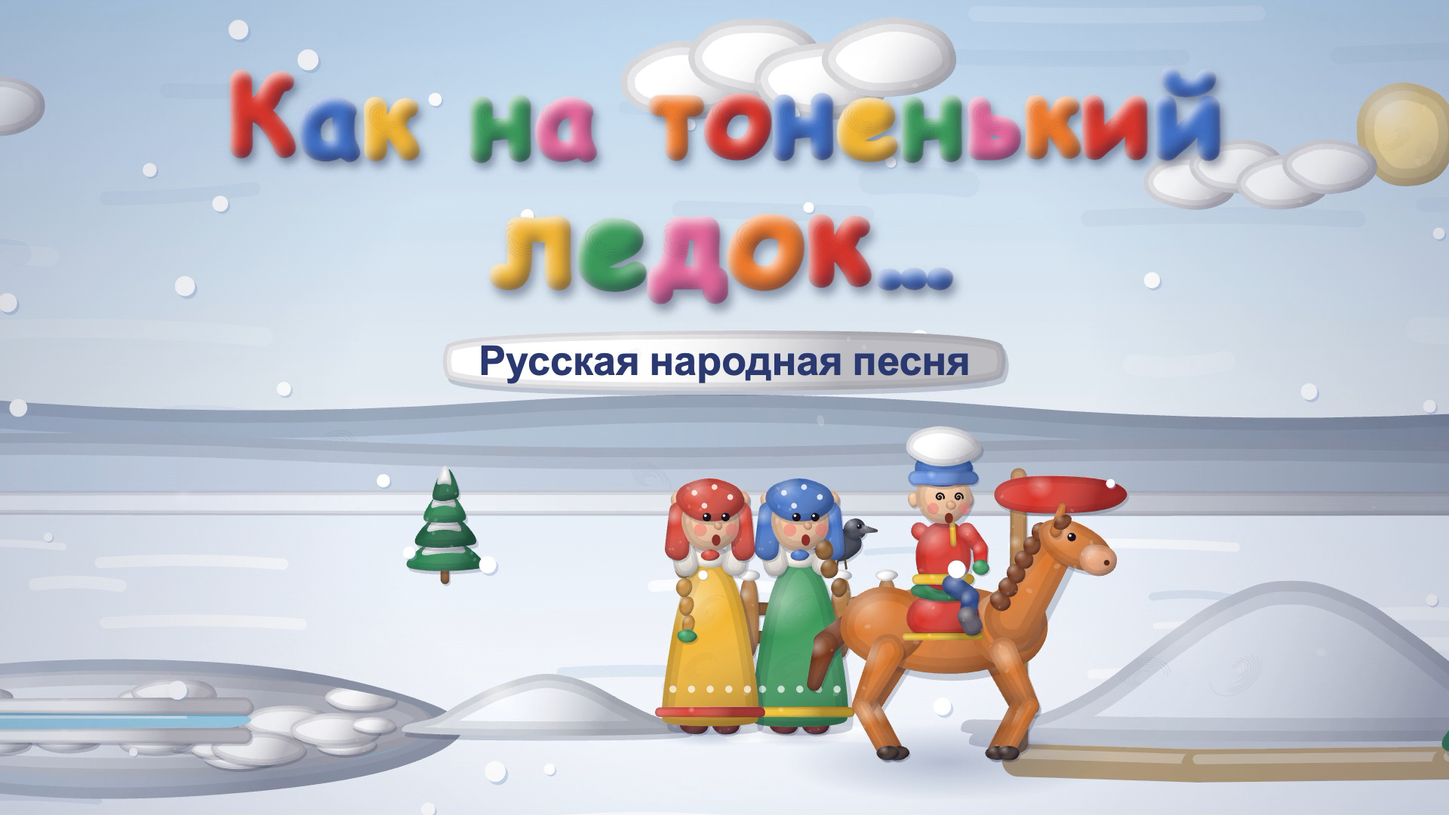
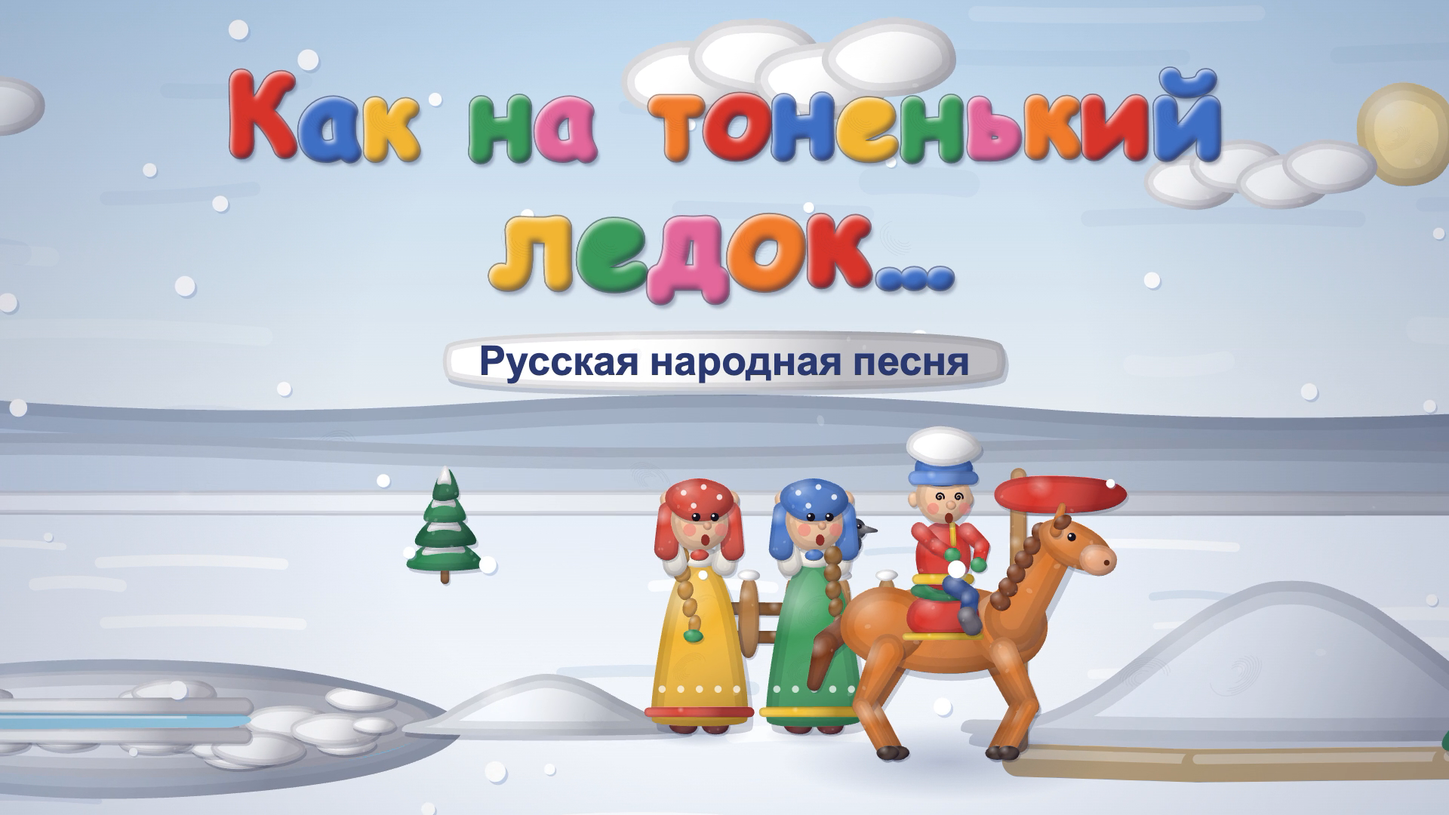
add Как на тоненький ледок (Народное) v2
Резкий заголовок, у Вани обе руки видны во всех позах, руки и коса девушек исправлены, снегирю лапки.

diff --git a/texts/Народное/Как на тоненький ледок/video/index.html b/texts/Народное/Как на тоненький ледок/video/index.html
@@ -520,10 +520,10 @@ function drawVanya(c, x, y, V) {
   c.save(); c.translate(x, y); if (V.rot) c.rotate(V.rot); c.scale(V.sx ?? 1, V.sy ?? 1);
   const look = V.look ?? 0.6, legs = V.legs ?? "stand";
   // ноги
-  const legDraw = (hx, kx, ky, fx, fy, seed) => {
+  const legDraw = (hx, kx, ky, fx, fy, seed) => { // носок валенка — по развороту тела
     claySaus(c, hx, 0, 17, kx, ky, 15, PAL.pants, seed, { prints: 0 });
     claySaus(c, kx, ky, 15, fx, fy - 18, 14, PAL.pants, seed + 1, { prints: 0 });
-    claySaus(c, fx, fy - 26, 16, fx + 7 * Math.sign(look || 1), fy - 10, 17, PAL.felt, seed + 2, { prints: 0 });
+    claySaus(c, fx, fy - 26, 16, fx + 7 * (V.face ?? Math.sign(look || 1)), fy - 10, 17, PAL.felt, seed + 2, { prints: 0 });
   };
   if (legs === "stand") { const st = V.step || 0; legDraw(-18, -21, 44, -22 + st, 100, 801); legDraw(18, 21, 44, 22 - st, 100, 804); }
   else if (legs === "fly") { legDraw(-18, -46, 30, -60, 74, 801); legDraw(18, 46, 30, 62, 70, 804); }
@@ -535,18 +535,19 @@ function drawVanya(c, x, y, V) {
     claySaus(c, k.jx, k.jy, 13, k.ex, k.ey, 11, PAL.shirt, 812 + i * 3, { prints: 0 });
     clayBlob(c, k.ex, k.ey, 14, 13, PAL.mitt, 0, 813 + i * 3, { prints: 0 });
   };
-  const farArm = look >= 0 ? 0 : 1;
-  armDraw(farArm);
+  const face = V.face ?? (look >= 0 ? 1 : -1), farArm = face >= 0 ? 0 : 1;
+  if (!V.armsFront) armDraw(farArm); // всадник держит поводья обеими руками перед животом — обе руки спереди
   // туловище
   clay(c, blob(0, -50, 47, 60, 0, 821, 0.04), PAL.shirt, { seed: 821, prints: 1 });
   claySaus(c, 10 + look * 8, -104, 5, 12 + look * 8, -70, 5, PAL.gold, 822, { prints: 0, shadow: false });
   claySaus(c, -44, -10, 9, 44, -10, 9, PAL.gold, 823, { prints: 0 });
   clayBlob(c, 26, 6, 7, 12, PAL.gold, 0.3, 824, { prints: 0 });
   if (legs === "ride") { // ближняя нога вдоль бока коня
-    claySaus(c, 16 * Math.sign(look || 1), 0, 18, 46, 18, 15, PAL.pants, 831, { prints: 0 });
+    claySaus(c, 16, 0, 18, 46, 18, 15, PAL.pants, 831, { prints: 0 });
     claySaus(c, 46, 18, 15, 42, 58, 14, PAL.pants, 832, { prints: 0 });
     claySaus(c, 40, 52, 16, 50, 70, 17, PAL.felt, 833, { prints: 0 });
   }
+  if (V.armsFront) armDraw(farArm);
   armDraw(1 - farArm);
   // голова
   const fx = look * 14, hb = V.headBob || 0;
@@ -588,11 +589,13 @@ function drawVanyaFlat(c, x, y, F) {
     claySaus(c, kx - i * 10, ky - i * 3, 14, fx - i * 10, fy, 13, PAL.pants, 862 + i * 4, { prints: 0 });
     claySaus(c, fx - i * 10, fy + 4, 15, fx - i * 10 - 6, fy - 16, 16, PAL.felt, 863 + i * 4, { prints: 0 });
   }
-  // руки в стороны по снегу
-  claySaus(c, 30 * sx, -18 * sy, 13, 80 * sx, 6, 11, PAL.shirt, 871, { prints: 0 }); clayBlob(c, 92 * sx, 8, 14, 10, PAL.mitt, 0, 872, { prints: 0 });
+  // дальняя рука раскинута в сторону от зрителя — видна над спиной
+  claySaus(c, 40 * sx, -26 * sy, 12, 58 * sx, -30 * sy - 34, 10, PAL.shirt, 869, { prints: 0 }); clayBlob(c, 62 * sx, -30 * sy - 44, 13, 12, PAL.mitt, 0, 870, { prints: 0 });
   // туловище-лепёшка
   clay(c, blob(0, -30 * sy, 78 * sx, 40 * sy, 0, 873, 0.05), PAL.shirt, { seed: 873, prints: 2 });
   claySaus(c, -54 * sx, -26 * sy, 8, -40 * sx, -50 * sy, 8, PAL.gold, 874, { prints: 0, shadow: false });
+  // ближняя рука раскинута к зрителю — лежит на снегу перед туловищем
+  claySaus(c, 44 * sx, -18 * sy, 13, 64 * sx, 16, 11, PAL.shirt, 871, { prints: 0 }); clayBlob(c, 70 * sx, 22, 14, 10, PAL.mitt, 0, 872, { prints: 0 });
   // голова: лицом в снег; поднимает — видно лицо в профиль
   const up = F.headUp || 0, hx = 112 * sx - 6 * up, hy = -34 * sy - 16 * up;
   claySaus(c, 62 * sx, -28 * sy, 22 * sy + 6, hx - 18, hy + 8, 20, PAL.shirt, 879, { prints: 0, shadow: false }); // плечи-ворот: голова не отрывается от тела
@@ -631,7 +634,8 @@ function drawGirl(c, x, y, G) {
   for (const [i, [fx, fy]] of feet.entries()) clayBlob(c, fx, fy - 12 - (G.bob || 0), 20, 13, PAL.boot, 0, 901 + i, { prints: 0 });
   // коса за спиной/через плечо
   const bs = G.braidSide || -1, bsw = G.braidSwing || 0;
-  const braid = () => { let px = bs * 30, py = -282; for (let i = 0; i < 5; i++) { const nx = px + bs * (4 + i * 1.5) + Math.sin(bsw + i * 0.5) * i * 4, ny = py + 26; clayBlob(c, nx, ny, 13 - i, 14, G.hair || "#c58a3a", 0.2, 910 + i, { prints: 0, shadow: false }); px = nx; py = ny; } clayBlob(c, px + bs * 2, py + 16, 14, 9, G.ribbon || PAL.cloth, 0, 916, { prints: 0 }); };
+  // коса через плечо ложится на грудь: звенья идут вниз и чуть к середине, а не в воздух сбоку
+  const braid = () => { let px = bs * 28, py = -272; for (let i = 0; i < 5; i++) { const nx = px - bs * 1.5 + Math.sin(bsw + i * 0.5) * i * 1.6, ny = py + 24; clayBlob(c, nx, ny, 13 - i, 14, G.hair || "#c58a3a", 0.2, 910 + i, { prints: 0, shadow: false }); px = nx; py = ny; } clayBlob(c, px + bs * 2, py + 16, 14, 9, G.ribbon || PAL.cloth, 0, 916, { prints: 0 }); };
   // руки
   const SH = [[-34, -236], [34, -236]], arms = G.arms || [[-50, -150], [50, -150]];
   const hands = [];
@@ -704,6 +708,7 @@ function drawCrow(c, x, y, dir, t, huff) {
 }
 function drawFinch(c, x, y, dir, flap, t, chirp = 0) {
   c.save(); c.translate(x, y); c.scale(dir, 1); CLAYM = dir;
+  if (!flap) { c.strokeStyle = "#5a4a3a"; c.lineWidth = 2.5; c.lineCap = "round"; c.beginPath(); c.moveTo(-4, -4); c.lineTo(-6, 4); c.moveTo(5, -4); c.lineTo(6, 4); c.stroke(); }
   claySaus(c, -14, -16, 7, -34, -10, 4, "#2a2a33", 981, { prints: 0, shadow: false });
   clay(c, blob(0, -20, 22, 20, 0, 982, 0.04), PAL.finchB, { seed: 982, prints: 0 });
   c.save(); c.clip(blob(0, -20, 22, 20, 0, 982, 0.04).p); clayBlob(c, 10, -8, 22, 18, PAL.finch, 0, 983, { prints: 0, shadow: false }); c.restore();
@@ -731,8 +736,8 @@ const T_RUN0 = L(10) - 0.15, T_RUN1 = EN(11) - 0.25;
 const T_GO = EN(NL) + 0.3, T_BUMP = EN(NL) + 2.3;
 const HX_START = 520, HX_TROT = 1150, HX_SLIP = 1720, HX_ICE = 1960, HX_STAND = 2160, HX_BUMP = 3125;
 const VX_LIE = 2470, VX_UP = 2560;
-const G1 = { x0: 3530, x1: 2770, sar: "#f2b632", scarf: "#d84a3a", trim: "#d84a3a", hair: "#c58a3a", ribbon: "#3a9a5a", braidSide: -1, seed: 0 };
-const G2 = { x0: 3630, x1: 2895, sar: "#3d9a5b", scarf: "#4a78c8", trim: "#f2c232", hair: "#8a5a2a", ribbon: "#d84a3a", braidSide: 1, seed: 3 };
+const G1 = { x0: 3530, x1: 2755, sar: "#f2b632", scarf: "#d84a3a", trim: "#d84a3a", hair: "#c58a3a", ribbon: "#3a9a5a", braidSide: -1, seed: 0 };
+const G2 = { x0: 3630, x1: 2915, sar: "#3d9a5b", scarf: "#4a78c8", trim: "#f2c232", hair: "#8a5a2a", ribbon: "#d84a3a", braidSide: 1, seed: 3 };
 const GY = (x) => { const h = hillY(x); return h + 19 * (1 - (HILL.y - h) / (HILL.y - HILL.top)); };
 
 function blinkAt(t, off) { const p = (t + off) % 3.3; return p < 0.16 ? Math.max(0.05, Math.abs(p - 0.08) / 0.08) : 1; }
@@ -770,7 +775,7 @@ function vanyaState(t) {
   return { mode: "ride" };
 }
 function riderPose(t) {
-  const V = { legs: "ride", look: 0.7, arms: [[58, -36], [64, -30]], sx: 0.82, sy: 0.82, mouth: 1, blink: blinkAt(t, 0.2) };
+  const V = { legs: "ride", face: 1, armsFront: true, look: 0.7, arms: [[30, -40], [60, -34]], sx: 0.82, sy: 0.82, mouth: 1, blink: blinkAt(t, 0.2) };
   if (t < T_FLY0) {
     // глазеет на снегиря, отвернувшись назад
     const back = sstep(prog(t, E.w_posp - 0.45, E.w_posp - 0.1)) * (1 - sstep(prog(t, T_SLIP - 0.05, T_SLIP + 0.1)));
@@ -1045,26 +1050,30 @@ function captionsPlate(c, t) {
 const TITLE_L1 = "Как на тоненький", TITLE_L2 = "ледок…", SUB = "Русская народная песня";
 const T_COLORS = ["#d8352a", "#3f6fc4", "#f2b632", "#3a9a5a", "#e2679a", "#f07a2a"];
 let SPRITES = null;
-function makeLetter(ch, px, hex) {
-  const f = `700 ${px}px "Comic Sans MS", "Trebuchet MS", sans-serif`, pad = 40;
+const TS = 2; // буквы рисуем в 2× и уменьшаем при выводе — край остаётся чётким
+function makeLetter(ch, pxOut, hex) {
+  const px = pxOut * TS, f = `700 ${px}px "Comic Sans MS", "Trebuchet MS", sans-serif`, pad = 40 * TS;
   const m = document.createElement("canvas").getContext("2d"); m.font = f;
   const w = Math.ceil(m.measureText(ch).width) + pad * 2, h = Math.ceil(px * 1.35) + pad * 2;
   const cv = document.createElement("canvas"); cv.width = w; cv.height = h;
   const a = cv.getContext("2d"), bx = pad, by = pad + px * 1.0;
   const shape = (g, col) => { g.font = f; g.lineJoin = "round"; g.lineWidth = px * 0.08; g.fillStyle = col; g.strokeStyle = col; g.fillText(ch, bx, by); g.strokeText(ch, bx, by); };
   // тень
-  a.save(); a.filter = `blur(${px * 0.04}px)`; a.globalAlpha = 0.35; a.translate(px * 0.035, px * 0.06); shape(a, "#28304f"); a.restore();
+  a.save(); a.filter = `blur(${px * 0.012}px)`; a.globalAlpha = 0.3; a.translate(px * 0.025, px * 0.04); shape(a, "#28304f"); a.restore();
   const b = document.createElement("canvas"); b.width = w; b.height = h; const bc = b.getContext("2d"); shape(bc, hex);
   // объём: внутренняя тень снизу-справа и блик сверху-слева через размытую «изнанку»
   const inv = (col) => { const q = document.createElement("canvas"); q.width = w; q.height = h; const g = q.getContext("2d"); g.fillStyle = col; g.fillRect(0, 0, w, h); g.globalCompositeOperation = "destination-out"; shape(g, "#000"); return q; };
   bc.globalCompositeOperation = "source-atop";
-  bc.save(); bc.filter = `blur(${px * 0.05}px)`; bc.globalAlpha = 0.55; bc.drawImage(inv("#1e1a3a"), -px * 0.04, -px * 0.05); bc.restore();
-  bc.save(); bc.filter = `blur(${px * 0.04}px)`; bc.globalAlpha = 0.75; bc.drawImage(inv("#ffffff"), px * 0.035, px * 0.045); bc.restore();
+  bc.save(); bc.filter = `blur(${px * 0.022}px)`; bc.globalAlpha = 0.5; bc.drawImage(inv("#1e1a3a"), -px * 0.025, -px * 0.03); bc.restore();
+  bc.save(); bc.filter = `blur(${px * 0.018}px)`; bc.globalAlpha = 0.7; bc.drawImage(inv("#ffffff"), px * 0.02, px * 0.026); bc.restore();
+  // чёткий край буквы
+  bc.globalCompositeOperation = "source-over"; bc.save(); bc.font = f; bc.lineJoin = "round"; bc.lineWidth = Math.max(2, px * 0.012); bc.strokeStyle = rgbStr(shades(hex).deep, 0.55);
+  bc.fillStyle = "rgba(0,0,0,0)"; bc.lineWidth = px * 0.08 + Math.max(2, px * 0.012) * 2; bc.globalCompositeOperation = "destination-over"; bc.strokeText(ch, bx, by); bc.restore();
   // отпечаток пальца
   bc.strokeStyle = "rgba(30,20,50,0.08)"; bc.lineWidth = 1.2;
   for (let i = 0; i < 6; i++) { bc.beginPath(); bc.ellipse(bx + px * 0.25, by - px * 0.35, px * (0.05 + i * 0.03), px * (0.035 + i * 0.022), 0.4, 0.3 * i, 0.3 * i + 2.4); bc.stroke(); }
   a.drawImage(b, 0, 0);
-  return { cv, w, h, adv: m.measureText(ch).width, bx, by };
+  return { cv, w, h, adv: m.measureText(ch).width / TS, bx, by };
 }
 function layoutLine(str, px, cx, baseY, ci) {
   const out = []; let x = 0;
@@ -1092,9 +1101,9 @@ function drawTitleSet(c, t, t0, out) {
     let oy = 0, a = 1;
     if (out !== undefined && t > out) { const v = t - out - i * 0.02; if (v > 0) { oy = -700 * v * v * 3; a = 1 - clamp(v / 0.4, 0, 1); } }
     if (a <= 0) return;
-    const wob = Math.sin(t * 2 + i) * 2;
-    c.save(); c.globalAlpha = a; c.translate(L1.x + L1.sp.adv / 2, y + oy + wob); c.scale(sx, sy);
-    c.drawImage(L1.sp.cv, -L1.sp.adv / 2 - L1.sp.bx, -L1.sp.by); c.restore();
+    const wob = Math.round(Math.sin(t * 2 + i) * 2);
+    c.save(); c.globalAlpha = a; c.translate(Math.round(L1.x + L1.sp.adv / 2), Math.round(y + oy) + wob); c.scale(sx, sy);
+    c.drawImage(L1.sp.cv, -L1.sp.adv / 2 - L1.sp.bx / TS, -L1.sp.by / TS, L1.sp.w / TS, L1.sp.h / TS); c.restore();
   });
 }
 function drawSub(c, t, t0, y, out) {

diff --git a/texts/Народное/Как на тоненький ледок/video/src/chars.js b/texts/Народное/Как на тоненький ледок/video/src/chars.js
@@ -109,10 +109,10 @@ function drawVanya(c, x, y, V) {
   c.save(); c.translate(x, y); if (V.rot) c.rotate(V.rot); c.scale(V.sx ?? 1, V.sy ?? 1);
   const look = V.look ?? 0.6, legs = V.legs ?? "stand";
   // ноги
-  const legDraw = (hx, kx, ky, fx, fy, seed) => {
+  const legDraw = (hx, kx, ky, fx, fy, seed) => { // носок валенка — по развороту тела
     claySaus(c, hx, 0, 17, kx, ky, 15, PAL.pants, seed, { prints: 0 });
     claySaus(c, kx, ky, 15, fx, fy - 18, 14, PAL.pants, seed + 1, { prints: 0 });
-    claySaus(c, fx, fy - 26, 16, fx + 7 * Math.sign(look || 1), fy - 10, 17, PAL.felt, seed + 2, { prints: 0 });
+    claySaus(c, fx, fy - 26, 16, fx + 7 * (V.face ?? Math.sign(look || 1)), fy - 10, 17, PAL.felt, seed + 2, { prints: 0 });
   };
   if (legs === "stand") { const st = V.step || 0; legDraw(-18, -21, 44, -22 + st, 100, 801); legDraw(18, 21, 44, 22 - st, 100, 804); }
   else if (legs === "fly") { legDraw(-18, -46, 30, -60, 74, 801); legDraw(18, 46, 30, 62, 70, 804); }
@@ -124,18 +124,19 @@ function drawVanya(c, x, y, V) {
     claySaus(c, k.jx, k.jy, 13, k.ex, k.ey, 11, PAL.shirt, 812 + i * 3, { prints: 0 });
     clayBlob(c, k.ex, k.ey, 14, 13, PAL.mitt, 0, 813 + i * 3, { prints: 0 });
   };
-  const farArm = look >= 0 ? 0 : 1;
-  armDraw(farArm);
+  const face = V.face ?? (look >= 0 ? 1 : -1), farArm = face >= 0 ? 0 : 1;
+  if (!V.armsFront) armDraw(farArm); // всадник держит поводья обеими руками перед животом — обе руки спереди
   // туловище
   clay(c, blob(0, -50, 47, 60, 0, 821, 0.04), PAL.shirt, { seed: 821, prints: 1 });
   claySaus(c, 10 + look * 8, -104, 5, 12 + look * 8, -70, 5, PAL.gold, 822, { prints: 0, shadow: false });
   claySaus(c, -44, -10, 9, 44, -10, 9, PAL.gold, 823, { prints: 0 });
   clayBlob(c, 26, 6, 7, 12, PAL.gold, 0.3, 824, { prints: 0 });
   if (legs === "ride") { // ближняя нога вдоль бока коня
-    claySaus(c, 16 * Math.sign(look || 1), 0, 18, 46, 18, 15, PAL.pants, 831, { prints: 0 });
+    claySaus(c, 16, 0, 18, 46, 18, 15, PAL.pants, 831, { prints: 0 });
     claySaus(c, 46, 18, 15, 42, 58, 14, PAL.pants, 832, { prints: 0 });
     claySaus(c, 40, 52, 16, 50, 70, 17, PAL.felt, 833, { prints: 0 });
   }
+  if (V.armsFront) armDraw(farArm);
   armDraw(1 - farArm);
   // голова
   const fx = look * 14, hb = V.headBob || 0;
@@ -177,11 +178,13 @@ function drawVanyaFlat(c, x, y, F) {
     claySaus(c, kx - i * 10, ky - i * 3, 14, fx - i * 10, fy, 13, PAL.pants, 862 + i * 4, { prints: 0 });
     claySaus(c, fx - i * 10, fy + 4, 15, fx - i * 10 - 6, fy - 16, 16, PAL.felt, 863 + i * 4, { prints: 0 });
   }
-  // руки в стороны по снегу
-  claySaus(c, 30 * sx, -18 * sy, 13, 80 * sx, 6, 11, PAL.shirt, 871, { prints: 0 }); clayBlob(c, 92 * sx, 8, 14, 10, PAL.mitt, 0, 872, { prints: 0 });
+  // дальняя рука раскинута в сторону от зрителя — видна над спиной
+  claySaus(c, 40 * sx, -26 * sy, 12, 58 * sx, -30 * sy - 34, 10, PAL.shirt, 869, { prints: 0 }); clayBlob(c, 62 * sx, -30 * sy - 44, 13, 12, PAL.mitt, 0, 870, { prints: 0 });
   // туловище-лепёшка
   clay(c, blob(0, -30 * sy, 78 * sx, 40 * sy, 0, 873, 0.05), PAL.shirt, { seed: 873, prints: 2 });
   claySaus(c, -54 * sx, -26 * sy, 8, -40 * sx, -50 * sy, 8, PAL.gold, 874, { prints: 0, shadow: false });
+  // ближняя рука раскинута к зрителю — лежит на снегу перед туловищем
+  claySaus(c, 44 * sx, -18 * sy, 13, 64 * sx, 16, 11, PAL.shirt, 871, { prints: 0 }); clayBlob(c, 70 * sx, 22, 14, 10, PAL.mitt, 0, 872, { prints: 0 });
   // голова: лицом в снег; поднимает — видно лицо в профиль
   const up = F.headUp || 0, hx = 112 * sx - 6 * up, hy = -34 * sy - 16 * up;
   claySaus(c, 62 * sx, -28 * sy, 22 * sy + 6, hx - 18, hy + 8, 20, PAL.shirt, 879, { prints: 0, shadow: false }); // плечи-ворот: голова не отрывается от тела
@@ -220,7 +223,8 @@ function drawGirl(c, x, y, G) {
   for (const [i, [fx, fy]] of feet.entries()) clayBlob(c, fx, fy - 12 - (G.bob || 0), 20, 13, PAL.boot, 0, 901 + i, { prints: 0 });
   // коса за спиной/через плечо
   const bs = G.braidSide || -1, bsw = G.braidSwing || 0;
-  const braid = () => { let px = bs * 30, py = -282; for (let i = 0; i < 5; i++) { const nx = px + bs * (4 + i * 1.5) + Math.sin(bsw + i * 0.5) * i * 4, ny = py + 26; clayBlob(c, nx, ny, 13 - i, 14, G.hair || "#c58a3a", 0.2, 910 + i, { prints: 0, shadow: false }); px = nx; py = ny; } clayBlob(c, px + bs * 2, py + 16, 14, 9, G.ribbon || PAL.cloth, 0, 916, { prints: 0 }); };
+  // коса через плечо ложится на грудь: звенья идут вниз и чуть к середине, а не в воздух сбоку
+  const braid = () => { let px = bs * 28, py = -272; for (let i = 0; i < 5; i++) { const nx = px - bs * 1.5 + Math.sin(bsw + i * 0.5) * i * 1.6, ny = py + 24; clayBlob(c, nx, ny, 13 - i, 14, G.hair || "#c58a3a", 0.2, 910 + i, { prints: 0, shadow: false }); px = nx; py = ny; } clayBlob(c, px + bs * 2, py + 16, 14, 9, G.ribbon || PAL.cloth, 0, 916, { prints: 0 }); };
   // руки
   const SH = [[-34, -236], [34, -236]], arms = G.arms || [[-50, -150], [50, -150]];
   const hands = [];
@@ -293,6 +297,7 @@ function drawCrow(c, x, y, dir, t, huff) {
 }
 function drawFinch(c, x, y, dir, flap, t, chirp = 0) {
   c.save(); c.translate(x, y); c.scale(dir, 1); CLAYM = dir;
+  if (!flap) { c.strokeStyle = "#5a4a3a"; c.lineWidth = 2.5; c.lineCap = "round"; c.beginPath(); c.moveTo(-4, -4); c.lineTo(-6, 4); c.moveTo(5, -4); c.lineTo(6, 4); c.stroke(); }
   claySaus(c, -14, -16, 7, -34, -10, 4, "#2a2a33", 981, { prints: 0, shadow: false });
   clay(c, blob(0, -20, 22, 20, 0, 982, 0.04), PAL.finchB, { seed: 982, prints: 0 });
   c.save(); c.clip(blob(0, -20, 22, 20, 0, 982, 0.04).p); clayBlob(c, 10, -8, 22, 18, PAL.finch, 0, 983, { prints: 0, shadow: false }); c.restore();

diff --git a/texts/Народное/Как на тоненький ледок/video/src/main.js b/texts/Народное/Как на тоненький ледок/video/src/main.js
@@ -13,8 +13,8 @@ const T_RUN0 = L(10) - 0.15, T_RUN1 = EN(11) - 0.25;
 const T_GO = EN(NL) + 0.3, T_BUMP = EN(NL) + 2.3;
 const HX_START = 520, HX_TROT = 1150, HX_SLIP = 1720, HX_ICE = 1960, HX_STAND = 2160, HX_BUMP = 3125;
 const VX_LIE = 2470, VX_UP = 2560;
-const G1 = { x0: 3530, x1: 2770, sar: "#f2b632", scarf: "#d84a3a", trim: "#d84a3a", hair: "#c58a3a", ribbon: "#3a9a5a", braidSide: -1, seed: 0 };
-const G2 = { x0: 3630, x1: 2895, sar: "#3d9a5b", scarf: "#4a78c8", trim: "#f2c232", hair: "#8a5a2a", ribbon: "#d84a3a", braidSide: 1, seed: 3 };
+const G1 = { x0: 3530, x1: 2755, sar: "#f2b632", scarf: "#d84a3a", trim: "#d84a3a", hair: "#c58a3a", ribbon: "#3a9a5a", braidSide: -1, seed: 0 };
+const G2 = { x0: 3630, x1: 2915, sar: "#3d9a5b", scarf: "#4a78c8", trim: "#f2c232", hair: "#8a5a2a", ribbon: "#d84a3a", braidSide: 1, seed: 3 };
 const GY = (x) => { const h = hillY(x); return h + 19 * (1 - (HILL.y - h) / (HILL.y - HILL.top)); };
 
 function blinkAt(t, off) { const p = (t + off) % 3.3; return p < 0.16 ? Math.max(0.05, Math.abs(p - 0.08) / 0.08) : 1; }
@@ -52,7 +52,7 @@ function vanyaState(t) {
   return { mode: "ride" };
 }
 function riderPose(t) {
-  const V = { legs: "ride", look: 0.7, arms: [[58, -36], [64, -30]], sx: 0.82, sy: 0.82, mouth: 1, blink: blinkAt(t, 0.2) };
+  const V = { legs: "ride", face: 1, armsFront: true, look: 0.7, arms: [[30, -40], [60, -34]], sx: 0.82, sy: 0.82, mouth: 1, blink: blinkAt(t, 0.2) };
   if (t < T_FLY0) {
     // глазеет на снегиря, отвернувшись назад
     const back = sstep(prog(t, E.w_posp - 0.45, E.w_posp - 0.1)) * (1 - sstep(prog(t, T_SLIP - 0.05, T_SLIP + 0.1)));
@@ -327,26 +327,30 @@ function captionsPlate(c, t) {
 const TITLE_L1 = "Как на тоненький", TITLE_L2 = "ледок…", SUB = "Русская народная песня";
 const T_COLORS = ["#d8352a", "#3f6fc4", "#f2b632", "#3a9a5a", "#e2679a", "#f07a2a"];
 let SPRITES = null;
-function makeLetter(ch, px, hex) {
-  const f = `700 ${px}px "Comic Sans MS", "Trebuchet MS", sans-serif`, pad = 40;
+const TS = 2; // буквы рисуем в 2× и уменьшаем при выводе — край остаётся чётким
+function makeLetter(ch, pxOut, hex) {
+  const px = pxOut * TS, f = `700 ${px}px "Comic Sans MS", "Trebuchet MS", sans-serif`, pad = 40 * TS;
   const m = document.createElement("canvas").getContext("2d"); m.font = f;
   const w = Math.ceil(m.measureText(ch).width) + pad * 2, h = Math.ceil(px * 1.35) + pad * 2;
   const cv = document.createElement("canvas"); cv.width = w; cv.height = h;
   const a = cv.getContext("2d"), bx = pad, by = pad + px * 1.0;
   const shape = (g, col) => { g.font = f; g.lineJoin = "round"; g.lineWidth = px * 0.08; g.fillStyle = col; g.strokeStyle = col; g.fillText(ch, bx, by); g.strokeText(ch, bx, by); };
   // тень
-  a.save(); a.filter = `blur(${px * 0.04}px)`; a.globalAlpha = 0.35; a.translate(px * 0.035, px * 0.06); shape(a, "#28304f"); a.restore();
+  a.save(); a.filter = `blur(${px * 0.012}px)`; a.globalAlpha = 0.3; a.translate(px * 0.025, px * 0.04); shape(a, "#28304f"); a.restore();
   const b = document.createElement("canvas"); b.width = w; b.height = h; const bc = b.getContext("2d"); shape(bc, hex);
   // объём: внутренняя тень снизу-справа и блик сверху-слева через размытую «изнанку»
   const inv = (col) => { const q = document.createElement("canvas"); q.width = w; q.height = h; const g = q.getContext("2d"); g.fillStyle = col; g.fillRect(0, 0, w, h); g.globalCompositeOperation = "destination-out"; shape(g, "#000"); return q; };
   bc.globalCompositeOperation = "source-atop";
-  bc.save(); bc.filter = `blur(${px * 0.05}px)`; bc.globalAlpha = 0.55; bc.drawImage(inv("#1e1a3a"), -px * 0.04, -px * 0.05); bc.restore();
-  bc.save(); bc.filter = `blur(${px * 0.04}px)`; bc.globalAlpha = 0.75; bc.drawImage(inv("#ffffff"), px * 0.035, px * 0.045); bc.restore();
+  bc.save(); bc.filter = `blur(${px * 0.022}px)`; bc.globalAlpha = 0.5; bc.drawImage(inv("#1e1a3a"), -px * 0.025, -px * 0.03); bc.restore();
+  bc.save(); bc.filter = `blur(${px * 0.018}px)`; bc.globalAlpha = 0.7; bc.drawImage(inv("#ffffff"), px * 0.02, px * 0.026); bc.restore();
+  // чёткий край буквы
+  bc.globalCompositeOperation = "source-over"; bc.save(); bc.font = f; bc.lineJoin = "round"; bc.lineWidth = Math.max(2, px * 0.012); bc.strokeStyle = rgbStr(shades(hex).deep, 0.55);
+  bc.fillStyle = "rgba(0,0,0,0)"; bc.lineWidth = px * 0.08 + Math.max(2, px * 0.012) * 2; bc.globalCompositeOperation = "destination-over"; bc.strokeText(ch, bx, by); bc.restore();
   // отпечаток пальца
   bc.strokeStyle = "rgba(30,20,50,0.08)"; bc.lineWidth = 1.2;
   for (let i = 0; i < 6; i++) { bc.beginPath(); bc.ellipse(bx + px * 0.25, by - px * 0.35, px * (0.05 + i * 0.03), px * (0.035 + i * 0.022), 0.4, 0.3 * i, 0.3 * i + 2.4); bc.stroke(); }
   a.drawImage(b, 0, 0);
-  return { cv, w, h, adv: m.measureText(ch).width, bx, by };
+  return { cv, w, h, adv: m.measureText(ch).width / TS, bx, by };
 }
 function layoutLine(str, px, cx, baseY, ci) {
   const out = []; let x = 0;
@@ -374,9 +378,9 @@ function drawTitleSet(c, t, t0, out) {
     let oy = 0, a = 1;
     if (out !== undefined && t > out) { const v = t - out - i * 0.02; if (v > 0) { oy = -700 * v * v * 3; a = 1 - clamp(v / 0.4, 0, 1); } }
     if (a <= 0) return;
-    const wob = Math.sin(t * 2 + i) * 2;
-    c.save(); c.globalAlpha = a; c.translate(L1.x + L1.sp.adv / 2, y + oy + wob); c.scale(sx, sy);
-    c.drawImage(L1.sp.cv, -L1.sp.adv / 2 - L1.sp.bx, -L1.sp.by); c.restore();
+    const wob = Math.round(Math.sin(t * 2 + i) * 2);
+    c.save(); c.globalAlpha = a; c.translate(Math.round(L1.x + L1.sp.adv / 2), Math.round(y + oy) + wob); c.scale(sx, sy);
+    c.drawImage(L1.sp.cv, -L1.sp.adv / 2 - L1.sp.bx / TS, -L1.sp.by / TS, L1.sp.w / TS, L1.sp.h / TS); c.restore();
   });
 }
 function drawSub(c, t, t0, y, out) {
